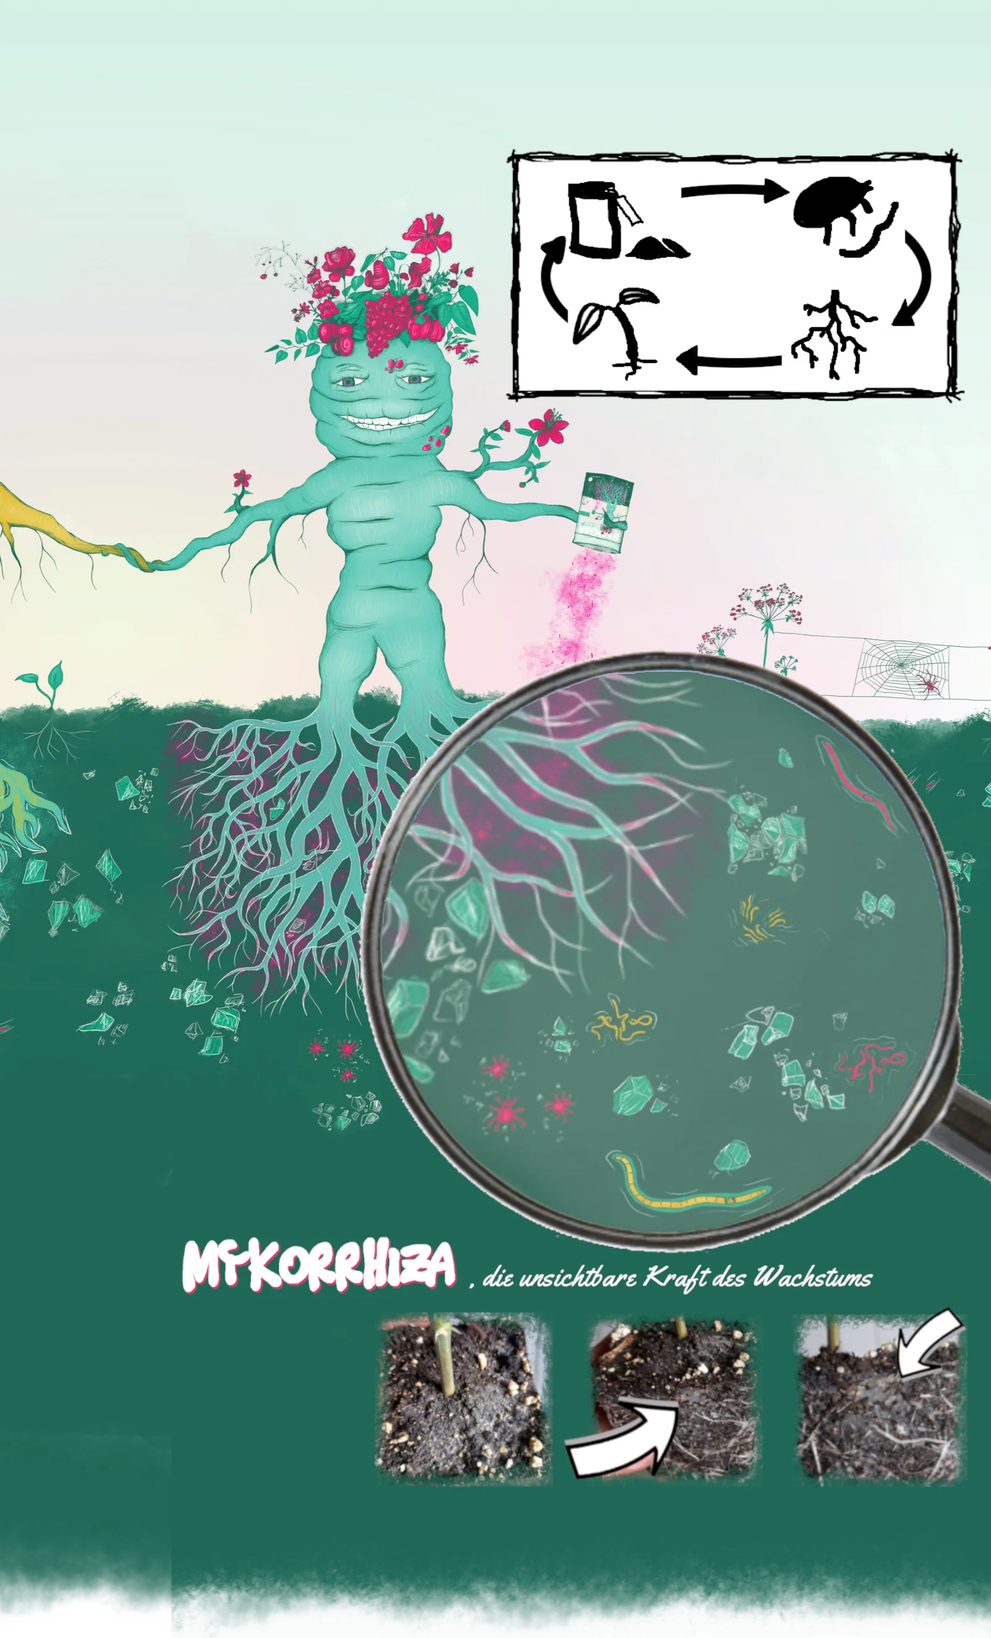
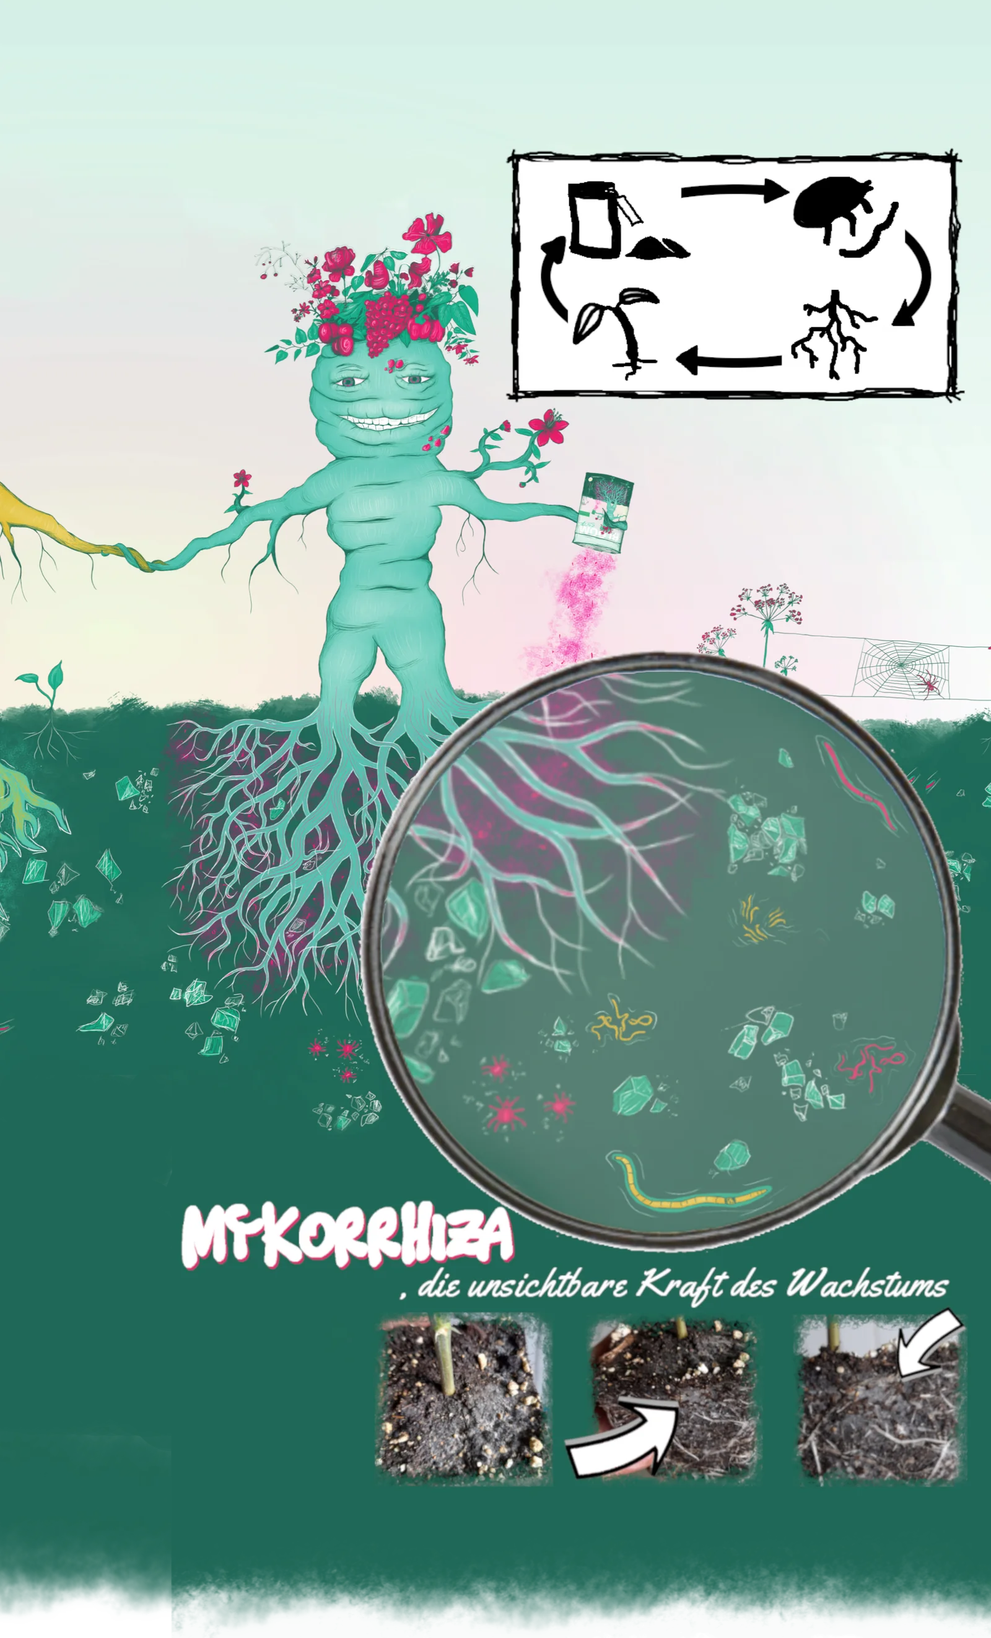
Fine tune mobile section 4

Changed region(s): [[0.1562, 0.713, 0.9688, 0.806]]

diff --git a/index.html b/index.html
@@ -7,15 +7,15 @@
   <meta content="Webflow" name="generator">
   <link href="css/normalize.css" rel="stylesheet" type="text/css">
   <link href="css/webflow.css" rel="stylesheet" type="text/css">
-  <link href="css/groweasy.webflow.css?v=20260901-section4-mobile-bg" rel="stylesheet" type="text/css">
+  <link href="css/groweasy.webflow.css?v=20260902-mobile-wirkung-finetune" rel="stylesheet" type="text/css">
   <style>html.w-mod-js:not(.w-mod-ix3) :is(.container) {visibility: hidden !important;}</style>
   <link href="https://fonts.googleapis.com" rel="preconnect">
   <link href="https://fonts.gstatic.com" rel="preconnect" crossorigin="anonymous">
   <script src="https://ajax.googleapis.com/ajax/libs/webfont/1.6.26/webfont.js" type="text/javascript"></script>
   <script type="text/javascript">WebFont.load({  google: {    families: ["Montserrat:100,100italic,200,200italic,300,300italic,400,400italic,500,500italic,600,600italic,700,700italic,800,800italic,900,900italic","Montserrat Alternates:300,400,500,600,700","Oswald:700"]  }});</script>
   <script type="text/javascript">!function(o,c){var n=c.documentElement,t=" w-mod-";n.className+=t+"js",("ontouchstart"in o||o.DocumentTouch&&c instanceof DocumentTouch)&&(n.className+=t+"touch")}(window,document);</script>
-  <link href="images/favicon.ico?v=20260901-section4-mobile-bg" rel="shortcut icon" type="image/x-icon">
-  <link href="images/webclip.png?v=20260901-section4-mobile-bg" rel="apple-touch-icon">
+  <link href="images/favicon.ico?v=20260902-mobile-wirkung-finetune" rel="shortcut icon" type="image/x-icon">
+  <link href="images/webclip.png?v=20260902-mobile-wirkung-finetune" rel="apple-touch-icon">
 </head>
 <body class="body">
   <div data-animation="default" data-collapse="medium" data-duration="400" data-easing="ease" data-easing2="ease" role="banner" class="navbar w-nav">
@@ -33,10 +33,10 @@
   </div>
   <section class="section">
     <div class="w-layout-blockcontainer container-6 w-container"></div>
-    <a href="#Intro" class="hero-scroll-arrow" aria-label="Zu Alles was du brauchst scrollen"><img src="images/pfeil-nach-unten-duengerstil.png?v=20260901-section4-mobile-bg" loading="eager" alt="" class="hero-scroll-arrow-image"></a>
+    <a href="#Intro" class="hero-scroll-arrow" aria-label="Zu Alles was du brauchst scrollen"><img src="images/pfeil-nach-unten-duengerstil.png?v=20260902-mobile-wirkung-finetune" loading="eager" alt="" class="hero-scroll-arrow-image"></a>
   </section>
   <section id="Intro" class="section-2">
-    <div class="w-layout-blockcontainer container-2 w-container"><img src="images/Alles-was-du-brauchst-4-0.webp?v=20260901-section4-mobile-bg" loading="lazy" sizes="100vw" alt="" class="image-2"></div>
+    <div class="w-layout-blockcontainer container-2 w-container"><img src="images/Alles-was-du-brauchst-4-0.webp?v=20260902-mobile-wirkung-finetune" loading="lazy" sizes="100vw" alt="" class="image-2"></div>
   </section>
   <section class="section-3">
     <p class="erkl-rung kurs"><strong class="bold-text"><span class="benefit-line">Keine PH-Wertanpassung des Wassers nötig.</span><span class="benefit-line">Keine ml/mg genaue Dosierung erforderlich.</span><span class="benefit-line">Keine Gefahr der Überdosierung/Überdüngung.</span></strong><br></p>
@@ -80,10 +80,10 @@
   <section id="Produkt" data-w-id="aae89158-d7de-79a8-dcee-b44f5abfe164" class="produkt"><img src="images/Produktpic.webp" loading="lazy" sizes="(max-width: 1920px) 100vw, 1920px" srcset="images/Produktpic-p-500.webp 500w, images/Produktpic-p-800.webp 800w, images/Produktpic-p-1080.webp 1080w, images/Produktpic.webp 1920w" alt="">
     <h1 class="produkte-heading">Produkte</h1>
     <div class="w-layout-blockcontainer container-5 w-container">
-        <div data-w-id="583eeca8-3987-72a0-5dfb-3c6c129fb86a" class="div-block-6 proselect product-card-link" role="link" tabindex="0" data-product-url="groweasy.html?v=20260901-section4-mobile-bg" aria-label="GROW easy Produktdetails öffnen"><img src="images/Groweasyhead.png" loading="lazy" sizes="(max-width: 767px) 100vw, (max-width: 991px) 95vw, 940px" srcset="images/Groweasyhead-p-500.png 500w, images/Groweasyhead-p-800.png 800w, images/Groweasyhead-p-1080.png 1080w, images/Groweasyhead-p-1600.png 1600w, images/Groweasyhead.png 1920w" alt="" class="image-8"><img src="images/Groweasypack.png" loading="lazy" sizes="(max-width: 534px) 100vw, 534px" srcset="images/Groweasypack-p-500.png 500w, images/Groweasypack.png 534w" alt="" class="image-6">
+        <div data-w-id="583eeca8-3987-72a0-5dfb-3c6c129fb86a" class="div-block-6 proselect product-card-link" role="link" tabindex="0" data-product-url="groweasy.html?v=20260902-mobile-wirkung-finetune" aria-label="GROW easy Produktdetails öffnen"><img src="images/Groweasyhead.png" loading="lazy" sizes="(max-width: 767px) 100vw, (max-width: 991px) 95vw, 940px" srcset="images/Groweasyhead-p-500.png 500w, images/Groweasyhead-p-800.png 800w, images/Groweasyhead-p-1080.png 1080w, images/Groweasyhead-p-1600.png 1600w, images/Groweasyhead.png 1920w" alt="" class="image-8"><img src="images/Groweasypack.png" loading="lazy" sizes="(max-width: 534px) 100vw, 534px" srcset="images/Groweasypack-p-500.png 500w, images/Groweasypack.png 534w" alt="" class="image-6">
         <div class="grow-slogan">Booste dein Wachstum<br>mit GROWeasy zum<br>satten Grün!</div>
       </div>
-        <div data-w-id="83c55b57-7c4c-fba3-46ac-d25d5f707b01" class="div-block-5 proselet product-card-link" role="link" tabindex="0" data-product-url="bloomeasy.html?v=20260901-section4-mobile-bg" aria-label="BLOOM easy Produktdetails öffnen"><img src="images/Bloomeasyhead.png" loading="lazy" sizes="(max-width: 767px) 100vw, (max-width: 991px) 95vw, 940px" srcset="images/Bloomeasyhead-p-500.png 500w, images/Bloomeasyhead-p-800.png 800w, images/Bloomeasyhead-p-1080.png 1080w, images/Bloomeasyhead-p-1600.png 1600w, images/Bloomeasyhead.png 1920w" alt="" class="image-9"><img src="images/Bloomeasypack.png" loading="lazy" sizes="(max-width: 534px) 100vw, 534px" srcset="images/Bloomeasypack-p-500.png 500w, images/Bloomeasypack.png 534w" alt="" class="image-7">
+        <div data-w-id="83c55b57-7c4c-fba3-46ac-d25d5f707b01" class="div-block-5 proselet product-card-link" role="link" tabindex="0" data-product-url="bloomeasy.html?v=20260902-mobile-wirkung-finetune" aria-label="BLOOM easy Produktdetails öffnen"><img src="images/Bloomeasyhead.png" loading="lazy" sizes="(max-width: 767px) 100vw, (max-width: 991px) 95vw, 940px" srcset="images/Bloomeasyhead-p-500.png 500w, images/Bloomeasyhead-p-800.png 800w, images/Bloomeasyhead-p-1080.png 1080w, images/Bloomeasyhead-p-1600.png 1600w, images/Bloomeasyhead.png 1920w" alt="" class="image-9"><img src="images/Bloomeasypack.png" loading="lazy" sizes="(max-width: 534px) 100vw, 534px" srcset="images/Bloomeasypack-p-500.png 500w, images/Bloomeasypack.png 534w" alt="" class="image-7">
         <div class="bloom-slogan">Mit BLOOMeasy zu<br>prächtige Blüten,<br>natürlich und mühelos!</div>
       </div>
     </div>
@@ -138,6 +138,6 @@
   <script src="https://d3e54v103j8qbb.cloudfront.net/js/jquery-3.5.1.min.dc5e7f18c8.js?site=69b96837971bd01c02390ca6" type="text/javascript" integrity="sha256-9/aliU8dGd2tb6OSsuzixeV4y/faTqgFtohetphbbj0=" crossorigin="anonymous"></script>
   <script src="js/webflow.js" type="text/javascript"></script>
   <script src="https://cdn.prod.website-files.com/gsap/3.15.0/gsap.min.js" type="text/javascript"></script>
-  <script src="js/groweasy-custom.js?v=20260901-section4-mobile-bg" type="text/javascript"></script>
+  <script src="js/groweasy-custom.js?v=20260902-mobile-wirkung-finetune" type="text/javascript"></script>
 </body>
 </html>

diff --git a/kontakt.html b/kontakt.html
@@ -7,15 +7,15 @@
   <meta content="Webflow" name="generator">
   <link href="css/normalize.css" rel="stylesheet" type="text/css">
   <link href="css/webflow.css" rel="stylesheet" type="text/css">
-  <link href="css/groweasy.webflow.css?v=20260901-section4-mobile-bg" rel="stylesheet" type="text/css">
+  <link href="css/groweasy.webflow.css?v=20260902-mobile-wirkung-finetune" rel="stylesheet" type="text/css">
   <style>html.w-mod-js:not(.w-mod-ix3) :is(.container) {visibility: hidden !important;}</style>
   <link href="https://fonts.googleapis.com" rel="preconnect">
   <link href="https://fonts.gstatic.com" rel="preconnect" crossorigin="anonymous">
   <script src="https://ajax.googleapis.com/ajax/libs/webfont/1.6.26/webfont.js" type="text/javascript"></script>
   <script type="text/javascript">WebFont.load({  google: {    families: ["Montserrat:100,100italic,200,200italic,300,300italic,400,400italic,500,500italic,600,600italic,700,700italic,800,800italic,900,900italic","Montserrat Alternates:300,400,500,600,700","Oswald:700"]  }});</script>
   <script type="text/javascript">!function(o,c){var n=c.documentElement,t=" w-mod-";n.className+=t+"js",("ontouchstart"in o||o.DocumentTouch&&c instanceof DocumentTouch)&&(n.className+=t+"touch")}(window,document);</script>
-  <link href="images/favicon.ico?v=20260901-section4-mobile-bg" rel="shortcut icon" type="image/x-icon">
-  <link href="images/webclip.png?v=20260901-section4-mobile-bg" rel="apple-touch-icon">
+  <link href="images/favicon.ico?v=20260902-mobile-wirkung-finetune" rel="shortcut icon" type="image/x-icon">
+  <link href="images/webclip.png?v=20260902-mobile-wirkung-finetune" rel="apple-touch-icon">
 </head>
 <body class="body contact-page">
   <div data-animation="default" data-collapse="medium" data-duration="400" data-easing="ease" data-easing2="ease" role="banner" class="navbar w-nav">
@@ -59,6 +59,6 @@
   <script src="https://d3e54v103j8qbb.cloudfront.net/js/jquery-3.5.1.min.dc5e7f18c8.js?site=69b96837971bd01c02390ca6" type="text/javascript" integrity="sha256-9/aliU8dGd2tb6OSsuzixeV4y/faTqgFtohetphbbj0=" crossorigin="anonymous"></script>
   <script src="js/webflow.js" type="text/javascript"></script>
   <script src="https://cdn.prod.website-files.com/gsap/3.15.0/gsap.min.js" type="text/javascript"></script>
-  <script src="js/groweasy-custom.js?v=20260901-section4-mobile-bg" type="text/javascript"></script>
+  <script src="js/groweasy-custom.js?v=20260902-mobile-wirkung-finetune" type="text/javascript"></script>
 </body>
 </html>

diff --git a/cookies.html b/cookies.html
@@ -7,15 +7,15 @@
   <meta content="Webflow" name="generator">
   <link href="css/normalize.css" rel="stylesheet" type="text/css">
   <link href="css/webflow.css" rel="stylesheet" type="text/css">
-  <link href="css/groweasy.webflow.css?v=20260901-section4-mobile-bg" rel="stylesheet" type="text/css">
+  <link href="css/groweasy.webflow.css?v=20260902-mobile-wirkung-finetune" rel="stylesheet" type="text/css">
   <style>html.w-mod-js:not(.w-mod-ix3) :is(.container) {visibility: hidden !important;}</style>
   <link href="https://fonts.googleapis.com" rel="preconnect">
   <link href="https://fonts.gstatic.com" rel="preconnect" crossorigin="anonymous">
   <script src="https://ajax.googleapis.com/ajax/libs/webfont/1.6.26/webfont.js" type="text/javascript"></script>
   <script type="text/javascript">WebFont.load({  google: {    families: ["Montserrat:100,100italic,200,200italic,300,300italic,400,400italic,500,500italic,600,600italic,700,700italic,800,800italic,900,900italic","Montserrat Alternates:300,400,500,600,700","Oswald:700"]  }});</script>
   <script type="text/javascript">!function(o,c){var n=c.documentElement,t=" w-mod-";n.className+=t+"js",("ontouchstart"in o||o.DocumentTouch&&c instanceof DocumentTouch)&&(n.className+=t+"touch")}(window,document);</script>
-  <link href="images/favicon.ico?v=20260901-section4-mobile-bg" rel="shortcut icon" type="image/x-icon">
-  <link href="images/webclip.png?v=20260901-section4-mobile-bg" rel="apple-touch-icon">
+  <link href="images/favicon.ico?v=20260902-mobile-wirkung-finetune" rel="shortcut icon" type="image/x-icon">
+  <link href="images/webclip.png?v=20260902-mobile-wirkung-finetune" rel="apple-touch-icon">
 </head>
 <body class="body legal-page">
   <div data-animation="default" data-collapse="medium" data-duration="400" data-easing="ease" data-easing2="ease" role="banner" class="navbar w-nav">
@@ -49,6 +49,6 @@
   <script src="https://d3e54v103j8qbb.cloudfront.net/js/jquery-3.5.1.min.dc5e7f18c8.js?site=69b96837971bd01c02390ca6" type="text/javascript" integrity="sha256-9/aliU8dGd2tb6OSsuzixeV4y/faTqgFtohetphbbj0=" crossorigin="anonymous"></script>
   <script src="js/webflow.js" type="text/javascript"></script>
   <script src="https://cdn.prod.website-files.com/gsap/3.15.0/gsap.min.js" type="text/javascript"></script>
-  <script src="js/groweasy-custom.js?v=20260901-section4-mobile-bg" type="text/javascript"></script>
+  <script src="js/groweasy-custom.js?v=20260902-mobile-wirkung-finetune" type="text/javascript"></script>
 </body>
 </html>

diff --git a/datenschutz.html b/datenschutz.html
@@ -7,15 +7,15 @@
   <meta content="Webflow" name="generator">
   <link href="css/normalize.css" rel="stylesheet" type="text/css">
   <link href="css/webflow.css" rel="stylesheet" type="text/css">
-  <link href="css/groweasy.webflow.css?v=20260901-section4-mobile-bg" rel="stylesheet" type="text/css">
+  <link href="css/groweasy.webflow.css?v=20260902-mobile-wirkung-finetune" rel="stylesheet" type="text/css">
   <style>html.w-mod-js:not(.w-mod-ix3) :is(.container) {visibility: hidden !important;}</style>
   <link href="https://fonts.googleapis.com" rel="preconnect">
   <link href="https://fonts.gstatic.com" rel="preconnect" crossorigin="anonymous">
   <script src="https://ajax.googleapis.com/ajax/libs/webfont/1.6.26/webfont.js" type="text/javascript"></script>
   <script type="text/javascript">WebFont.load({  google: {    families: ["Montserrat:100,100italic,200,200italic,300,300italic,400,400italic,500,500italic,600,600italic,700,700italic,800,800italic,900,900italic","Montserrat Alternates:300,400,500,600,700","Oswald:700"]  }});</script>
   <script type="text/javascript">!function(o,c){var n=c.documentElement,t=" w-mod-";n.className+=t+"js",("ontouchstart"in o||o.DocumentTouch&&c instanceof DocumentTouch)&&(n.className+=t+"touch")}(window,document);</script>
-  <link href="images/favicon.ico?v=20260901-section4-mobile-bg" rel="shortcut icon" type="image/x-icon">
-  <link href="images/webclip.png?v=20260901-section4-mobile-bg" rel="apple-touch-icon">
+  <link href="images/favicon.ico?v=20260902-mobile-wirkung-finetune" rel="shortcut icon" type="image/x-icon">
+  <link href="images/webclip.png?v=20260902-mobile-wirkung-finetune" rel="apple-touch-icon">
 </head>
 <body class="body legal-page">
   <div data-animation="default" data-collapse="medium" data-duration="400" data-easing="ease" data-easing2="ease" role="banner" class="navbar w-nav">
@@ -53,6 +53,6 @@
   <script src="https://d3e54v103j8qbb.cloudfront.net/js/jquery-3.5.1.min.dc5e7f18c8.js?site=69b96837971bd01c02390ca6" type="text/javascript" integrity="sha256-9/aliU8dGd2tb6OSsuzixeV4y/faTqgFtohetphbbj0=" crossorigin="anonymous"></script>
   <script src="js/webflow.js" type="text/javascript"></script>
   <script src="https://cdn.prod.website-files.com/gsap/3.15.0/gsap.min.js" type="text/javascript"></script>
-  <script src="js/groweasy-custom.js?v=20260901-section4-mobile-bg" type="text/javascript"></script>
+  <script src="js/groweasy-custom.js?v=20260902-mobile-wirkung-finetune" type="text/javascript"></script>
 </body>
 </html>

diff --git a/impressum.html b/impressum.html
@@ -7,15 +7,15 @@
   <meta content="Webflow" name="generator">
   <link href="css/normalize.css" rel="stylesheet" type="text/css">
   <link href="css/webflow.css" rel="stylesheet" type="text/css">
-  <link href="css/groweasy.webflow.css?v=20260901-section4-mobile-bg" rel="stylesheet" type="text/css">
+  <link href="css/groweasy.webflow.css?v=20260902-mobile-wirkung-finetune" rel="stylesheet" type="text/css">
   <style>html.w-mod-js:not(.w-mod-ix3) :is(.container) {visibility: hidden !important;}</style>
   <link href="https://fonts.googleapis.com" rel="preconnect">
   <link href="https://fonts.gstatic.com" rel="preconnect" crossorigin="anonymous">
   <script src="https://ajax.googleapis.com/ajax/libs/webfont/1.6.26/webfont.js" type="text/javascript"></script>
   <script type="text/javascript">WebFont.load({  google: {    families: ["Montserrat:100,100italic,200,200italic,300,300italic,400,400italic,500,500italic,600,600italic,700,700italic,800,800italic,900,900italic","Montserrat Alternates:300,400,500,600,700","Oswald:700"]  }});</script>
   <script type="text/javascript">!function(o,c){var n=c.documentElement,t=" w-mod-";n.className+=t+"js",("ontouchstart"in o||o.DocumentTouch&&c instanceof DocumentTouch)&&(n.className+=t+"touch")}(window,document);</script>
-  <link href="images/favicon.ico?v=20260901-section4-mobile-bg" rel="shortcut icon" type="image/x-icon">
-  <link href="images/webclip.png?v=20260901-section4-mobile-bg" rel="apple-touch-icon">
+  <link href="images/favicon.ico?v=20260902-mobile-wirkung-finetune" rel="shortcut icon" type="image/x-icon">
+  <link href="images/webclip.png?v=20260902-mobile-wirkung-finetune" rel="apple-touch-icon">
 </head>
 <body class="body legal-page">
   <div data-animation="default" data-collapse="medium" data-duration="400" data-easing="ease" data-easing2="ease" role="banner" class="navbar w-nav">
@@ -51,6 +51,6 @@
   <script src="https://d3e54v103j8qbb.cloudfront.net/js/jquery-3.5.1.min.dc5e7f18c8.js?site=69b96837971bd01c02390ca6" type="text/javascript" integrity="sha256-9/aliU8dGd2tb6OSsuzixeV4y/faTqgFtohetphbbj0=" crossorigin="anonymous"></script>
   <script src="js/webflow.js" type="text/javascript"></script>
   <script src="https://cdn.prod.website-files.com/gsap/3.15.0/gsap.min.js" type="text/javascript"></script>
-  <script src="js/groweasy-custom.js?v=20260901-section4-mobile-bg" type="text/javascript"></script>
+  <script src="js/groweasy-custom.js?v=20260902-mobile-wirkung-finetune" type="text/javascript"></script>
 </body>
 </html>

diff --git a/bloomeasy.html b/bloomeasy.html
@@ -7,7 +7,7 @@
   <meta content="Webflow" name="generator">
   <link href="css/normalize.css" rel="stylesheet" type="text/css">
   <link href="css/webflow.css" rel="stylesheet" type="text/css">
-  <link href="css/groweasy.webflow.css?v=20260901-section4-mobile-bg" rel="stylesheet" type="text/css">
+  <link href="css/groweasy.webflow.css?v=20260902-mobile-wirkung-finetune" rel="stylesheet" type="text/css">
   <style>
     @font-face {
       font-family: ImpactCondensed;
@@ -282,8 +282,8 @@
   <script src="https://ajax.googleapis.com/ajax/libs/webfont/1.6.26/webfont.js" type="text/javascript"></script>
   <script type="text/javascript">WebFont.load({  google: {    families: ["Montserrat:100,100italic,200,200italic,300,300italic,400,400italic,500,500italic,600,600italic,700,700italic,800,800italic,900,900italic","Montserrat Alternates:300,400,500,600,700","Oswald:700"]  }});</script>
   <script type="text/javascript">!function(o,c){var n=c.documentElement,t=" w-mod-";n.className+=t+"js",("ontouchstart"in o||o.DocumentTouch&&c instanceof DocumentTouch)&&(n.className+=t+"touch")}(window,document);</script>
-  <link href="images/favicon.ico?v=20260901-section4-mobile-bg" rel="shortcut icon" type="image/x-icon">
-  <link href="images/webclip.png?v=20260901-section4-mobile-bg" rel="apple-touch-icon">
+  <link href="images/favicon.ico?v=20260902-mobile-wirkung-finetune" rel="shortcut icon" type="image/x-icon">
+  <link href="images/webclip.png?v=20260902-mobile-wirkung-finetune" rel="apple-touch-icon">
 </head>
 <body class="body product-detail-page">
   <div data-animation="default" data-collapse="medium" data-duration="400" data-easing="ease" data-easing2="ease" role="banner" class="navbar w-nav">
@@ -334,6 +334,6 @@
   <script src="https://d3e54v103j8qbb.cloudfront.net/js/jquery-3.5.1.min.dc5e7f18c8.js?site=69b96837971bd01c02390ca6" type="text/javascript" integrity="sha256-9/aliU8dGd2tb6OSsuzixeV4y/faTqgFtohetphbbj0=" crossorigin="anonymous"></script>
   <script src="js/webflow.js" type="text/javascript"></script>
   <script src="https://cdn.prod.website-files.com/gsap/3.15.0/gsap.min.js" type="text/javascript"></script>
-  <script src="js/groweasy-custom.js?v=20260901-section4-mobile-bg" type="text/javascript"></script>
+  <script src="js/groweasy-custom.js?v=20260902-mobile-wirkung-finetune" type="text/javascript"></script>
 </body>
 </html>

diff --git a/groweasy.html b/groweasy.html
@@ -7,7 +7,7 @@
   <meta content="Webflow" name="generator">
   <link href="css/normalize.css" rel="stylesheet" type="text/css">
   <link href="css/webflow.css" rel="stylesheet" type="text/css">
-  <link href="css/groweasy.webflow.css?v=20260901-section4-mobile-bg" rel="stylesheet" type="text/css">
+  <link href="css/groweasy.webflow.css?v=20260902-mobile-wirkung-finetune" rel="stylesheet" type="text/css">
   <style>
     @font-face {
       font-family: ImpactCondensed;
@@ -282,8 +282,8 @@
   <script src="https://ajax.googleapis.com/ajax/libs/webfont/1.6.26/webfont.js" type="text/javascript"></script>
   <script type="text/javascript">WebFont.load({  google: {    families: ["Montserrat:100,100italic,200,200italic,300,300italic,400,400italic,500,500italic,600,600italic,700,700italic,800,800italic,900,900italic","Montserrat Alternates:300,400,500,600,700","Oswald:700"]  }});</script>
   <script type="text/javascript">!function(o,c){var n=c.documentElement,t=" w-mod-";n.className+=t+"js",("ontouchstart"in o||o.DocumentTouch&&c instanceof DocumentTouch)&&(n.className+=t+"touch")}(window,document);</script>
-  <link href="images/favicon.ico?v=20260901-section4-mobile-bg" rel="shortcut icon" type="image/x-icon">
-  <link href="images/webclip.png?v=20260901-section4-mobile-bg" rel="apple-touch-icon">
+  <link href="images/favicon.ico?v=20260902-mobile-wirkung-finetune" rel="shortcut icon" type="image/x-icon">
+  <link href="images/webclip.png?v=20260902-mobile-wirkung-finetune" rel="apple-touch-icon">
 </head>
 <body class="body product-detail-page">
   <div data-animation="default" data-collapse="medium" data-duration="400" data-easing="ease" data-easing2="ease" role="banner" class="navbar w-nav">
@@ -333,6 +333,6 @@
   <script src="https://d3e54v103j8qbb.cloudfront.net/js/jquery-3.5.1.min.dc5e7f18c8.js?site=69b96837971bd01c02390ca6" type="text/javascript" integrity="sha256-9/aliU8dGd2tb6OSsuzixeV4y/faTqgFtohetphbbj0=" crossorigin="anonymous"></script>
   <script src="js/webflow.js" type="text/javascript"></script>
   <script src="https://cdn.prod.website-files.com/gsap/3.15.0/gsap.min.js" type="text/javascript"></script>
-  <script src="js/groweasy-custom.js?v=20260901-section4-mobile-bg" type="text/javascript"></script>
+  <script src="js/groweasy-custom.js?v=20260902-mobile-wirkung-finetune" type="text/javascript"></script>
 </body>
 </html>

diff --git a/css/groweasy.webflow.css b/css/groweasy.webflow.css
@@ -2549,7 +2549,7 @@ html, body {
     --bio-heading-left: calc((100vw - var(--bio-heading-width)) / 2);
     --bio-heading-top: 742px;
     --bio-heading-gap: 42px;
-    height: 1900px;
+    height: 1500px;
   }
 
   .container-2 {
@@ -2810,8 +2810,8 @@ html, body {
   .section-4 {
     --myko-field-left: clamp(18px, 5.8vw, 32px);
     --myko-field-bottom: clamp(26px, 7vw, 46px);
-    --myko-field-width: clamp(158px, 39vw, 206px);
-    background-image: url('../images/Wirkungsweise-mobile.webp?v=20260901-section4-mobile-bg');
+    --myko-field-width: clamp(105px, 26vw, 137px);
+    background-image: url('../images/Wirkungsweise-mobile.webp?v=20260902-mobile-wirkung-finetune');
     background-position: 100% 0;
     background-size: auto 100%;
     height: clamp(820px, 165.3vw, 910px);
@@ -2828,16 +2828,23 @@ html, body {
   }
 
   .image-myko-textfeld {
-    content: url('../images/Myko-Textfeld-klein.webp?v=20260901-section4-mobile-bg');
+    content: url('../images/Myko-Textfeld-klein.webp?v=20260902-mobile-wirkung-finetune');
   }
 
   .myko-text-block {
     text-align: center;
     width: 76%;
-    font-size: clamp(15px, 4vw, 20px);
+    font-size: clamp(10.5px, 2.8vw, 14px);
     line-height: 1.08;
     left: 12%;
     top: 24%;
+  }
+}
+
+@media screen and (max-width: 410px) {
+  .section-4 {
+    background-size: calc(100vw + 86px) auto;
+    height: calc((100vw + 86px) * 1.6529);
   }
 }
 
